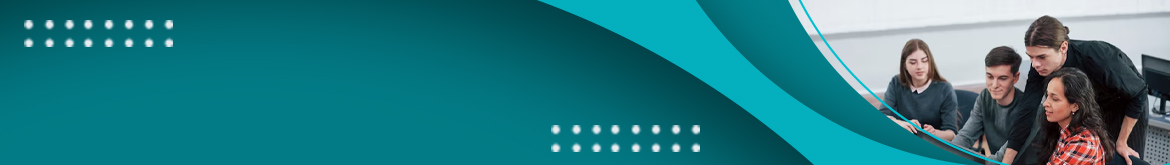
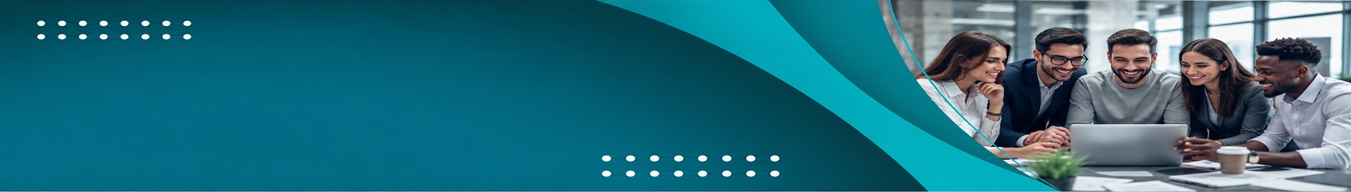
image

diff --git a/resources/views/admin/editIcon.blade.php b/resources/views/admin/editIcon.blade.php
@@ -178,176 +178,178 @@
 		 
         </div>
  
+{{-- Make sure jQuery + Select2 are loaded BEFORE this script --}}
+<script src="https://code.jquery.com/jquery-3.7.1.min.js"></script>
+<link href="https://cdn.jsdelivr.net/npm/select2@4.1.0-rc.0/dist/css/select2.min.css" rel="stylesheet" />
+<script src="https://cdn.jsdelivr.net/npm/select2@4.1.0-rc.0/dist/js/select2.min.js"></script>
+
 <script>
-// $(document).ready(function () {
+$(document).ready(function () {
 
-    // Initialize Select2 on existing banner selects
-    // function initClientSelect(elem) {
-    //     $(elem).select2({
-    //         placeholder: 'Search & select client...',
-    //         allowClear: true,
-    //         width: '100%'
-    //     });
-    // }
+    // ============ Helper: Initialize Select2 ============
+    function initClientSelect(elem) {
+        $(elem).select2({
+            placeholder: 'Search & select client...',
+            allowClear: true,
+            width: '100%'
+        });
+    }
 
-    // $('.select2-client').each(function () { initClientSelect(this); });
+    // Initialize Select2 on existing banner selects (now DOM is ready)
+    $('.select2-client').each(function () { initClientSelect(this); });
 
-    // ============ Build client <option> list for previews ============
+    // ============ Helper: Build options list ============
     function buildClientOptions() {
         let html = '<option value="">-- No client linked --</option>';
         (window.clientsList || []).forEach(c => {
-            html += `<option value="${c.business_slug}">${escapeHtml(c.business_name)}</option>`;
+            html += `<option value="${escapeHtml(c.business_slug)}">${escapeHtml(c.business_name)}</option>`;
         });
         return html;
     }
 
     function escapeHtml(s) {
-        return String(s).replace(/[&<>"']/g, m => ({
+        return String(s ?? '').replace(/[&<>"']/g, m => ({
             '&':'&amp;','<':'&lt;','>':'&gt;','"':'&quot;',"'":'&#39;'
         }[m]));
     }
 
-    // ============ Live Preview ============
-    document.getElementById('banners').addEventListener('change', function (e) {
-        const preview = document.getElementById('bannerPreview');
-        preview.innerHTML = '';
-        if (!e.target.files.length) return;
+    // ============ Helper: Show modal ============
+    function showModal(title, message, type = 'success') {
+        const cls = type === 'success' ? 'alert-success' : 'alert-danger';
+        $('#messagemodel .modal-title').text(title);
+        $('#messagemodel .modal-body').html(`<div class='alert ${cls}'>${message}</div>`);
+        $('#messagemodel').modal({ keyboard: false, backdrop: 'static' });
+        $('#messagemodel').css({ 'width': '100%' });
+    }
 
-        Array.from(e.target.files).forEach((file, index) => {
-            if (!file.type.startsWith('image/')) return;
-            const reader = new FileReader();
-            reader.onload = ev => {
-                const card = document.createElement('div');
-                card.className = 'col-lg-3 col-md-4 col-sm-6 col-xs-12 mb-3';
-                card.innerHTML = `
-                    <div style="border:1px dashed #aaa;padding:8px;border-radius:6px;background:#fafafa;">
-                        <img src="${ev.target.result}"
-                             style="width:100%;height:100px;object-fit:cover;border-radius:4px;border:1px solid #ddd;">
-                        <small class="d-block text-truncate mt-1" title="${escapeHtml(file.name)}">
-                            <strong>#${index + 1}</strong> ${escapeHtml(file.name)}
-                        </small>
-                        <select name="banner_clients[]"
-                                class="form-control form-control-sm mt-2 select2-client preview-client-select ">
-                            ${buildClientOptions()}
-                        </select>
-                    </div>`;
-                preview.appendChild(card);
-                // initClientSelect(card.querySelector('select'));
-            };
-            reader.readAsDataURL(file);
+    // ============ Live Preview ============
+    const bannersInput = document.getElementById('banners');
+    if (bannersInput) {
+        bannersInput.addEventListener('change', function (e) {
+            const preview = document.getElementById('bannerPreview');
+            preview.innerHTML = '';
+            if (!e.target.files.length) return;
+
+            Array.from(e.target.files).forEach((file, index) => {
+                if (!file.type.startsWith('image/')) return;
+                const reader = new FileReader();
+                reader.onload = ev => {
+                    const card = document.createElement('div');
+                    card.className = 'col-lg-3 col-md-4 col-sm-6 col-xs-12 mb-3';
+                    card.innerHTML = `
+                        <div style="border:1px dashed #aaa;padding:8px;border-radius:6px;background:#fafafa;">
+                            <img src="${ev.target.result}"
+                                 style="width:100%;height:100px;object-fit:cover;border-radius:4px;border:1px solid #ddd;">
+                            <small class="d-block text-truncate mt-1" title="${escapeHtml(file.name)}">
+                                <strong>#${index + 1}</strong> ${escapeHtml(file.name)}
+                            </small>
+                            <select name="banner_clients[]"
+                                    class="form-control form-control-sm mt-2 preview-client-select">
+                                ${buildClientOptions()}
+                            </select>
+                        </div>`;
+                    preview.appendChild(card);
+                    initClientSelect(card.querySelector('select'));   // ✅ now works
+                };
+                reader.readAsDataURL(file);
+            });
         });
-    });
+    }
 
     // ============ Form Submit ============
-    document.getElementById('bannerUploadForm').addEventListener('submit', function (e) {
-        e.preventDefault();
-        const form = e.target;
-        const formData = new FormData(form);
-        const btn = form.querySelector('button[type=submit]');
-        const orig = btn.innerHTML;
-        btn.disabled = true;
-        btn.innerHTML = '<i class="fa fa-spinner fa-spin"></i> Uploading...';
+    const form = document.getElementById('bannerUploadForm');
+    if (form) {
+        form.addEventListener('submit', function (e) {
+            e.preventDefault();
+            const formData = new FormData(form);
+            const btn = form.querySelector('button[type=submit]');
+            const orig = btn.innerHTML;
+            btn.disabled = true;
+            btn.innerHTML = '<i class="fa fa-spinner fa-spin"></i> Uploading...';
 
-        fetch(form.action, {
+            fetch(form.action, {
+                method: 'POST',
+                body: formData,
+                headers: { 'X-Requested-With': 'XMLHttpRequest', 'Accept': 'application/json' }
+            })
+            .then(res => res.json().then(d => ({ ok: res.ok, d })))
+            .then(({ ok, d }) => {
+                if (ok && d.status === 'success') {           // ✅ fixed path
+                    showModal('Upload Image', d.message);     // ✅ d.message, not data.message
+                    setTimeout(() => location.reload(), 1200);
+                } else {
+                    const errs = d.errors
+                        ? Object.values(d.errors).flat().join('\n')
+                        : (d.message || 'Upload failed');
+                    showModal('Upload Error', errs, 'danger');
+                }
+            })
+            .catch(err => showModal('Network Error', err.toString(), 'danger'))
+            .finally(() => { btn.disabled = false; btn.innerHTML = orig; });
+        });
+    }
+
+    // ============ Update Client for Existing Banner ============
+    window.updateBannerClient = function (id) {
+        const select = document.querySelector(`.banner-client-select[data-id="${id}"]`);
+        if (!select) {
+            alert('Select element not found for banner ' + id);
+            return;
+        }
+        const slug = select.value;
+
+        fetch(`/developer/keyword/banner/${id}/client`, {
             method: 'POST',
-            body: formData,
-            headers: { 'X-Requested-With': 'XMLHttpRequest', 'Accept': 'application/json' }
+            headers: {
+                'X-CSRF-TOKEN': document.querySelector('meta[name="csrf-token"]').content,
+                'Content-Type': 'application/json',
+                'Accept': 'application/json'
+            },
+            body: JSON.stringify({ client_slug: slug })
         })
-        .then(res => res.json().then(d => ({ ok: res.ok, d })))
-        .then(({ ok, d }) => {
-
-		 
-            if (d.data.status === 'success') {
-               
-				$('#messagemodel .modal-title').text("Uplaod Image");	
-				$('#messagemodel .modal-body').html("<div class='alert alert-success'>"+data.message+"</div>");			
-				$('#messagemodel').modal({keyboard:false,backdrop:'static'});
-				$('#messagemodel').css({'width':'100%'});
-                location.reload();
+        .then(res => res.json())
+        .then(data => {
+            if (data.status === 'success') {
+                showModal('Client Linked', data.message);
+                $(select).next('.select2').find('.select2-selection').css('border-color', '#28a745');
+                setTimeout(() => {
+                    $(select).next('.select2').find('.select2-selection').css('border-color', '');
+                }, 1500);
             } else {
-                const errs = d.errors ? Object.values(d.errors).flat().join('\n') : d.message;
-                alert('Error:\n' + errs);
+                showModal('Error', data.message || 'Failed to save', 'danger');
             }
         })
-        .catch(err => alert('Network error: ' + err))
-        .finally(() => { btn.disabled = false; btn.innerHTML = orig; });
-    });
-// });
+        .catch(err => showModal('Error', err.toString(), 'danger'));
+    };
 
-// ============ Update Client for Existing Banner ============
-function updateBannerClient(id) {
-    const select = document.querySelector(`.banner-client-select[data-id="${id}"]`);
-    const slug = select.value;
+    // ============ Delete Banner ============
+    window.deleteBanner = function (id) {
+        if (!confirm('Delete this banner?')) return;
+        fetch(`/developer/keyword/banner/${id}`, {
+            method: 'DELETE',
+            headers: {
+                'X-CSRF-TOKEN': document.querySelector('meta[name="csrf-token"]').content,
+                'Accept': 'application/json'
+            }
+        })
+        .then(res => res.json())
+        .then(data => {
+            if (data.status === 'success') {
+                showModal('Banner Deleted', data.message);
+                document.getElementById(`banner-${id}`).remove();
+            } else {
+                showModal('Error', data.message || 'Failed to delete', 'danger');
+            }
+        })
+        .catch(err => showModal('Error', err.toString(), 'danger'));
+    };
 
-    fetch(`/developer/keyword/banner/${id}/client`, {
-        method: 'POST',
-        headers: {
-            'X-CSRF-TOKEN': document.querySelector('meta[name="csrf-token"]').content,
-            'Content-Type': 'application/json',
-            'Accept': 'application/json'
-        },
-        body: JSON.stringify({ client_slug: slug })
-    })
-    .then(res => res.json())
-    .then(data => {
-        if (data.status === 'success') {
-
-			$('#messagemodel .modal-title').text("Client slug Image");	
-				$('#messagemodel .modal-body').html("<div class='alert alert-success'>"+data.message+"</div>");			
-				$('#messagemodel').modal({keyboard:false,backdrop:'static'});
-				$('#messagemodel').css({'width':'100%'});
-
-
-            $(select).next('.select2').find('.select2-selection').css('border-color', '#28a745');
-            setTimeout(() => {
-                $(select).next('.select2').find('.select2-selection').css('border-color', '');
-            }, 1500);
-        } else {
-            alert(data.message || 'Failed to save');
-        }
-    })
-    .catch(err => alert('Error: ' + err));
-}
-
-// ============ Delete Banner ============
-function deleteBanner(id) {
-    if (!confirm('Delete this banner?')) return;
-    fetch(`/developer/keyword/banner/${id}`, {
-        method: 'DELETE',
-        headers: {
-            'X-CSRF-TOKEN': document.querySelector('meta[name="csrf-token"]').content,
-            'Accept': 'application/json'
-        }
-    })
-    .then(res => res.json())
-    .then(data => {
-        if (data.status === 'success'){
-			
-			$('#messagemodel .modal-title').text("Client Delete banner Image");	
-				$('#messagemodel .modal-body').html("<div class='alert alert-success'>"+data.message+"</div>");			
-				$('#messagemodel').modal({keyboard:false,backdrop:'static'});
-				$('#messagemodel').css({'width':'100%'});
-
-			document.getElementById(`banner-${id}`).remove();
-}else{ alert(data.message); }
-    });
-}
+}); // end document ready
+</script>
 
 
 
-// $('.select2-client').select2({
-//     ajax: {
-//         url: '/api/clients/search',
-//         dataType: 'json',
-//         delay: 250,
-//         data: params => ({ q: params.term }),
-//         processResults: data => ({ results: data.map(c => ({ id: c.business_slug, text: c.business_name })) })
-//     },
-//     minimumInputLength: 2,
-//     placeholder: 'Search client...',
-//     allowClear: true
-// });
-</script> 
+ 
          
 
 <?php echo View::make('admin/footer'); ?>

diff --git a/app/Http/Controllers/Client/CitySlugController.php b/app/Http/Controllers/Client/CitySlugController.php
@@ -435,6 +435,22 @@ class CitySlugController extends Controller
         $responseZones = $this->fetchCityData($city);
         $zones     = $responseZones['data'] ?? [];
  
+
+        			
+		
+    //         $keywordBanners = DB::table('keyword_banners')
+    // ->where('keyword_id', '2973')
+    // ->orderBy('sort_order')
+    // ->get()
+    // ->map(function ($b) {
+    //     $b->image_url = asset($b->image_path);
+    //     $b->alt_text  = $b->alt_text ?: 'Banner';
+    //     $b->click_url = $b->client_slug ? url('/business-details/' . $b->client_slug) : null;
+    //     return $b;
+    // })
+    // ->values();
+	
+	
         return view('client.searchlist ', compact(
             'city', 'slug', 'keyword', 'area','zones',
             'childSlug', 'childCat',

diff --git a/app/Http/Controllers/KeywordController.php b/app/Http/Controllers/KeywordController.php
@@ -448,7 +448,7 @@ class KeywordController extends Controller
 	{
 		$edit_data = Keyword::find($id);
 		$banner_data = KeywordBanner::where('keyword_id',$id)->get();
-		$clients = Client::select('business_slug','id','business_name')->whereNotNull('business_slug')->get();
+		$clients = Client::select('business_slug','id','business_name')->whereNotNull('business_slug')->orderBy('business_name','asc')->get();
 
 		return view("admin.editIcon", ['edit_data' => $edit_data,'banner_data'=>$banner_data,'clients'=>$clients]);
 
